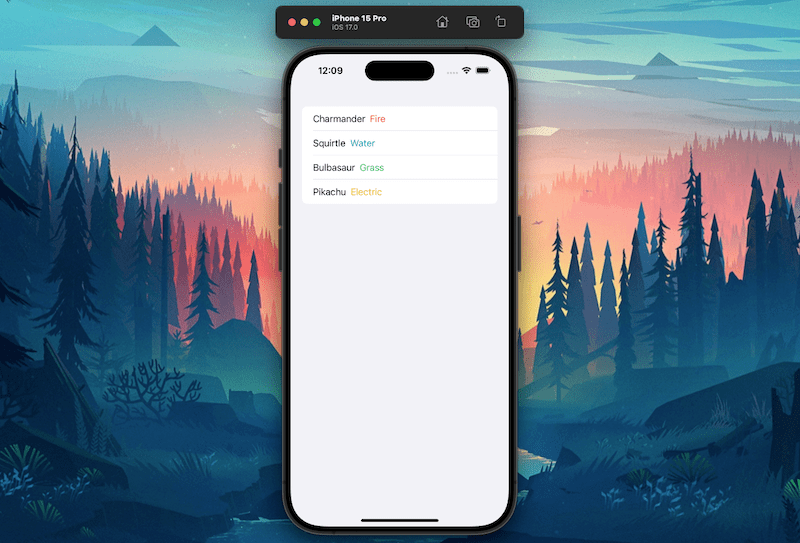
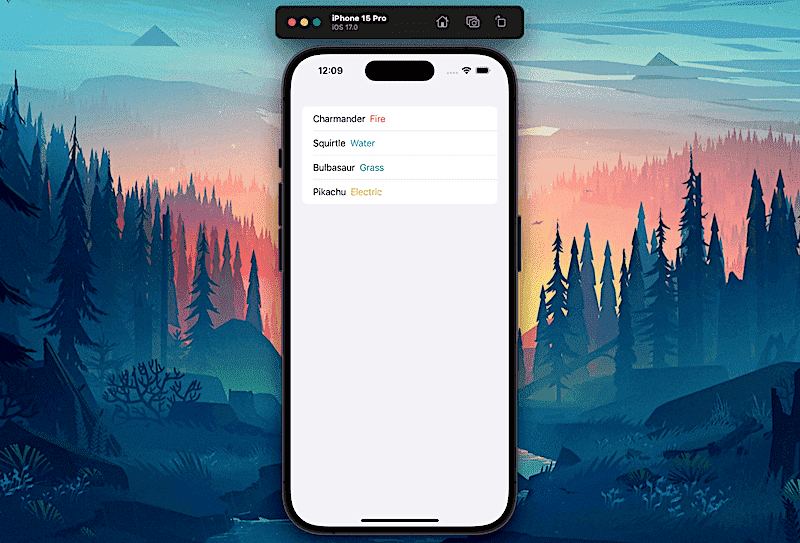
added new article / compressed a ton of images

diff --git a/Sources/App/Article/Article+Layout.swift b/Sources/App/Article/Article+Layout.swift
@@ -25,7 +25,8 @@ extension Article {
         return .div(attributes: [.class("article bg-body-tertiary")],
             .h1(attributes: [.class("mb-2")], .text(article.headline)),
                     .p(attributes: [.class("text-secondary small")], "Published on \(article.published_at.readableFormat)"),
-
+                    
+            .hr,
 
             .fragment(article.contentList.map({ content in
                 switch content {
@@ -60,12 +61,12 @@ extension Article {
                     return .a(attributes: [.href(article.fullCanonUrl), .class("ml-link d-block mb-3"), .target(.blank)], .text(article.headline))
                 }
             })),
+                    
+            .hr,
 
-            .p("I am happy you read my article and hope you found it useful! If you have any suggestions of any kind don't hesitate let me know. I’d love to hear from you!"),
+            .p(attributes: [.class("text-ml-primary text-center")], .text("I hope you found it useful! If you have any suggestions or feedback, let me know. I’d love to hear from you!")),
 
-            .br,
-
-            .div(attributes: [.class("pb-3 text-center")],
+            .div(attributes: [.class("pt-2 pb-3 text-center")],
                  .a(attributes: [.href(tweetLink), .target(.blank), .class("share")],
                     .i(attributes: [.class("bi bi-twitter me-2")]),
                     .text("Share on Twitter")

diff --git a/Sources/App/Article/Page/007_Error_AppIntentsSSUTraining.swift b/Sources/App/Article/Page/007_Error_AppIntentsSSUTraining.swift
@@ -1,0 +1,35 @@
+//
+//  Article+006.swift
+//  website
+//
+//  Created by Martin Lasek on 10/19/23.
+//  Copyright © 2023 Martin Lasek. All rights reserved.
+//
+
+import HtmlVaporSupport
+import Splash
+
+extension Article {
+
+    static let a_007_Error_AppIntentsSSUTraining = Article(
+        headline: "Error: Command AppIntentsSSUTraining failed with a nonzero exit code",
+        subheadline: "How to fix the error 'Command AppIntentsSSUTraining failed with a nonzero exit code'",
+        slug: "error-app-intents-ssu-training",
+        published_at: .date(26, .sep, 2024),
+
+        contentList: [
+            .opener("Here’s how to fix the error 'Command AppIntentsSSUTraining failed with a nonzero exit code'"),
+
+            .h2("The Problem"),
+            .text("You are trying to run or build your project but you run into the following compilation error."),
+            .image(.a_007_the_problem),
+
+            .h2("The Solution"),
+            .text("Select your project, then your target. From here go to the 'Build Settings' tab. Search for the world 'flexible' and you should be able to find 'Enable App Shortcuts Flexible Matching'. Set it to 'No'."),
+
+            .image(.a_007_the_solution),
+
+            .text("And that's it! You should now be able to build your project without any issues.")
+        ]
+    )
+}

diff --git a/Sources/App/Sponsor/Node+Sponsor.swift b/Sources/App/Sponsor/Node+Sponsor.swift
@@ -13,12 +13,12 @@ extension Node {
     static func sponsor(_ sponsor: Sponsor) -> Node {
         .div(attributes: [.class("mt-4 mb-4")],
              .a(attributes: [.href(sponsor.websiteLink), .class("sponsor d-block p-3"), .target(.blank)],
-                .span(attributes: [.class("d-flex mb-3")],
+                .span(attributes: [.class("d-flex mb-2")],
                       .img(attributes: [.src(sponsor.logoUrl), .class("me-auto")]),
                       .span(attributes: [.class("align-self-start text-ml-primary small")], .i("SPONSOR"))
                 ),
 
-                .p(attributes: [.class("mb-3")], .text(sponsor.description)),
+                .p(attributes: [.class("mb-2")], .text(sponsor.description)),
 
                  .div(attributes: [.class("text-end")],
                       .button(attributes: [.class("btn btn-md ml-button")], .text(sponsor.buttonText))

diff --git a/Sources/App/Views/Layout/Base/PageBuilder+Base.swift b/Sources/App/Views/Layout/Base/PageBuilder+Base.swift
@@ -48,6 +48,8 @@ extension PageBuilder {
     }
 
     static func base(navLink: NavLink, meta: MetaTagProvider, _ content: () -> Node) -> Node {
+        let year = Calendar.current.component(.year, from: Date())
+        
         return Node.html(attributes: [.lang(.en), .data("bs-theme", "dark")],
              head(meta),
             .body(
@@ -57,7 +59,7 @@ extension PageBuilder {
                 ),
                 .footer(attributes: [.class("footer")],
                         .span(attributes: [.class("text-center small d-block text-muted pt-5 pb-3")],
-                              .text("Copyright © 2023 Martin Lasek. All Rights Reserved.")
+                              .text("Copyright © \(year) Martin Lasek. All Rights Reserved.")
                         )
                 ),
                 .raw("""

diff --git a/Sources/App/Sponsor/Sponsor.swift b/Sources/App/Sponsor/Sponsor.swift
@@ -25,7 +25,7 @@ struct Sponsor {
         Sponsor(
             logoUrl: "/sponsors/wishkit-logo.png",
             websiteLink: "https://www.wishkit.io?ref=martinlasek",
-            description: "Collect user feedback from your iOS and macOS app. Prioritize what features to build next based on user interest and votes.",
+            description: "Gather user feedback and manage feature requests directly within your app. Empower users to suggest features, vote on ideas, and collaborate, all while you prioritize based on popularity.",
             buttonText: "Try For Free"
         )
     }

diff --git a/Sources/App/Article/Article+Images.swift b/Sources/App/Article/Article+Images.swift
@@ -30,6 +30,9 @@ extension Article {
 
         case a_006_the_problem = "006_the_problem.png"
         case a_006_the_solution = "006_the_solution.png"
+        
+        case a_007_the_problem = "007_the_problem.png"
+        case a_007_the_solution = "007_the_solution.png"
 
         var imgSrc: String {
             return "/articles/\(self.rawValue)"

diff --git a/Sources/App/Article/Article.swift b/Sources/App/Article/Article.swift
@@ -44,6 +44,7 @@ struct Article: MetaTagProvider {
     }
 
     static var all: [Article] = [
+        Article.a_007_Error_AppIntentsSSUTraining,
         Article.a_006_Get_Size_Of_View,
         Article.a_005_List_And_Identifiable,
         Article.a_004_UnderstandingStateSwiftUI,
